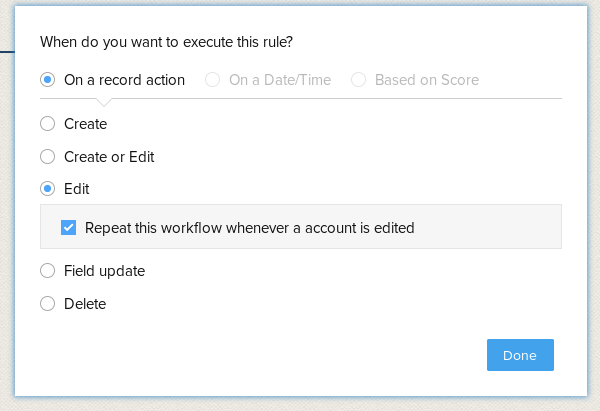
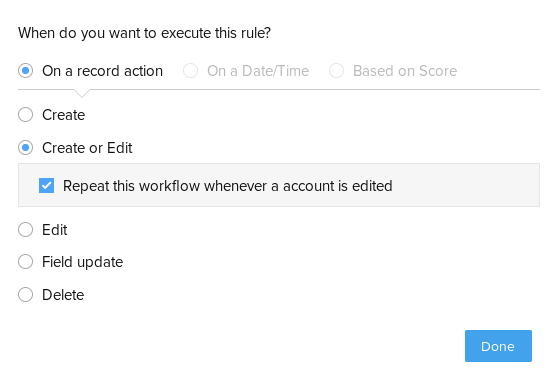
Update new workflow with update and create in 1

diff --git a/workflow/actions/sync.md b/workflow/actions/sync.md
@@ -1,21 +1,42 @@
 Workflow Rules to sync data
 ===========================
 
-## New food
-This is a rule to add a new Food record whenever a new Account gets added.
+## Create and update food
+This is a rule to add a new Food record whenever a new Account gets added or edited.
 
 ### When condition
 The when condition is set on create or edit, while theoreticaly edit is not needed we keep this as a safe guard for any issues.
-![when condition: create or edit with repeat](./images/newfood/when.png)
+![when condition: create or edit with repeat](./images/updatefood/when.png)
 
 ### Condition 1
 We apply the rule to all accounts
-This runs a function called `newFood` which receives an Account ID as `accountID`.
+This runs a function called `updateFood` which receives an Account ID as `accountID`.
 ```deluge
 user = zoho.crm.getRecordById("Accounts",accountID);
-records = zoho.crm.getRecords("Food");
+contacts = zoho.crm.getRelatedRecords("Contacts","Accounts",klantID,1,100); // children are stored in contacts
 
-// Check if exists to prevent duplicates
+numAdult = 1;
+numChild = 0;
+birthData = "";
+for each  contact in contacts
+{
+	birthdate = contact.get("Date_of_Birth");
+	if(birthdate != null)
+	{
+		birthData = birthData + birthdate + "\n";
+		age = ((zoho.currentdate.toDate() - birthdate.toDate()) / (1000 * 3600 * 24 * 365)).floor();
+		if(age < 12) // food amount whise
+		{
+			numChild = numChild + 1;
+		}
+		else
+		{
+			numAdult = numAdult + 1;
+		}
+	}
+}
+
+records = zoho.crm.searchRecords("Food","(Client:equals:" + accountID + ")",1,100);
 exists = false;
 for each record in records
 {
@@ -23,6 +44,14 @@ for each record in records
 	if(userID.toString() == accountID.toString())
 	{
 		exists = true;
+
+		// This copies the personal info fields
+		// You need to add a line for every field
+		record.put("Name",user.get("Name"));
+		record.put("Number_of_Adults",numAdult);
+		record.put("Number_of_Children",numChild);
+
+		zoho.crm.updateRecord("Food",record.get("id"),record);
 	}
 }
 
@@ -42,30 +71,5 @@ if (!exists)
 	created = zoho.crm.createRecord("Food",mp);
 	info mp; // handy debug lines
 	info created;
-}
-```
-
-## Update food
-This workflow is used to update the personal info inside the food records, it is a hack to not being able to embed blocks of an account inside a module.
-
-### When condition
-The when condition is set on edit.
-![when condition: edit with repeat](./images/updatefood/when.png)
-
-### Condition 1
-We apply the rule to all accounts
-This runs a function called `updateFood`. This function currently updates all info. This could change in the future.
-```deluge
-records = zoho.crm.getRecords("Food");
-for each  record in records
-{
-	userIF = record.get("User").get("id");
-	user = zoho.crm.getRecordById("Accounts",userID);
-
-    // This copies the personal info fields
-    // You need to add a line for every field
-	record.put("Name",user.get("Name"));
-
-	zoho.crm.updateRecord("Food",record.get("id"),record);
 }
 ```
